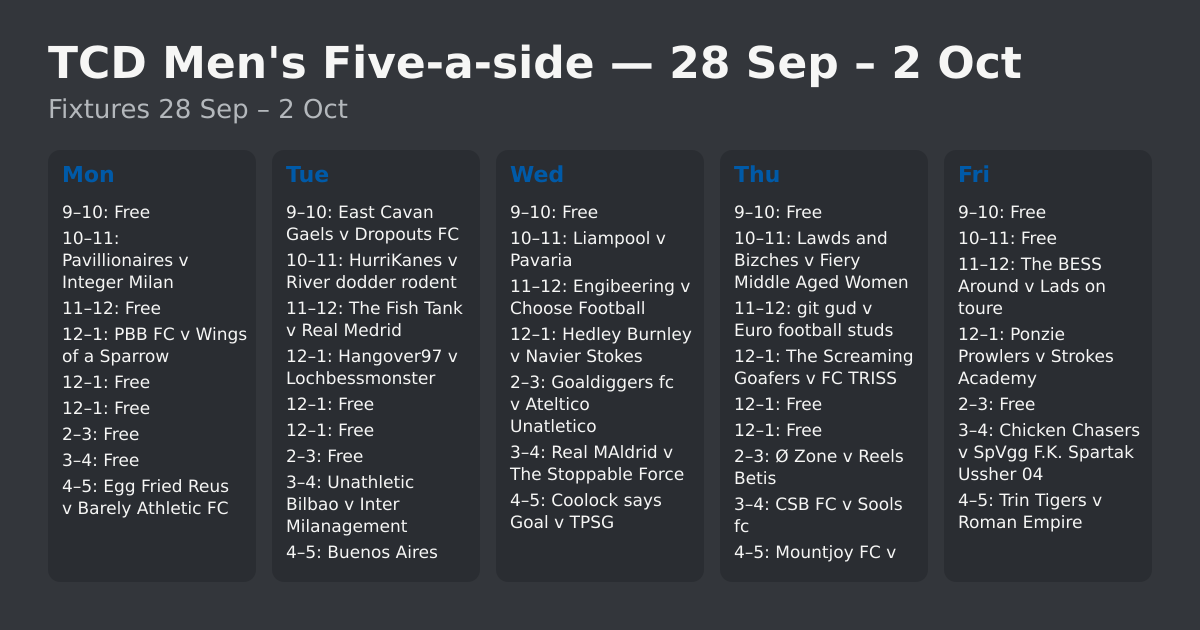
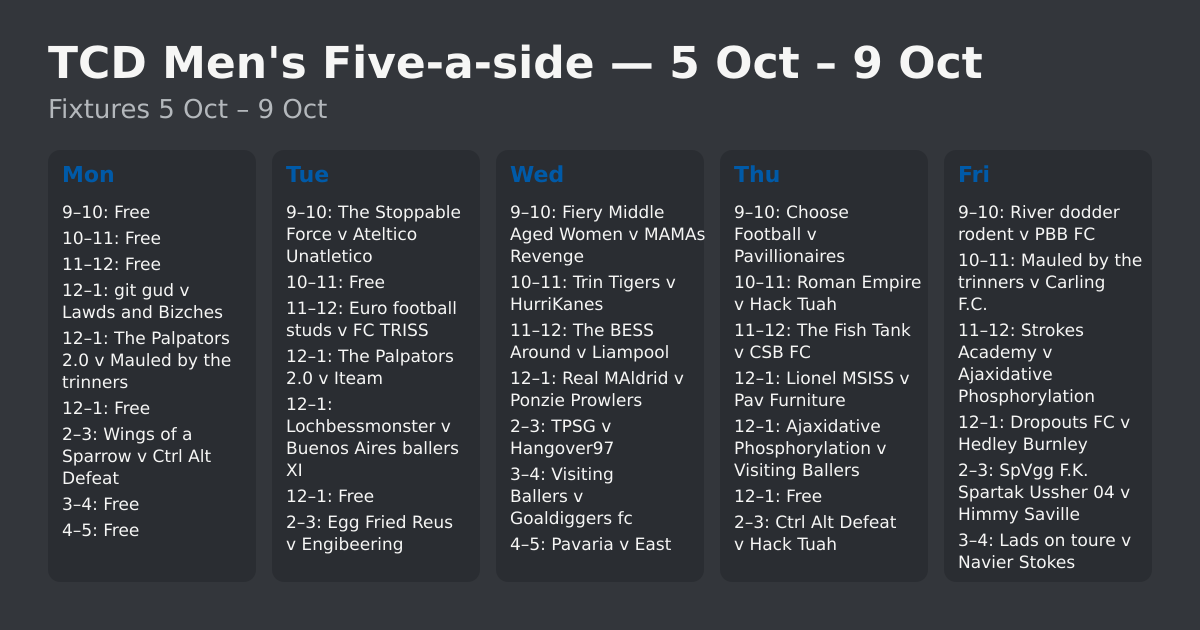
Sync fixtures from Google Sheet

diff --git a/index.html b/index.html
@@ -8,21 +8,21 @@
     />
     <meta name="theme-color" content="#33363b" />
     <!-- SHARE-META:START -->
-    <meta name="description" content="Mon:&#10;• 9–10 (Bay): Free slot&#10;• 10–11 (Bay): Pavillionaires v Integer Milan&#10;• 11–12 (Bay): Free slot&#10;• 12–1 (Bay): PBB FC v Wings of a Sparrow&#10;• 12–1 (Hall A): Free slot&#10;• 12–1 (Hall B): Free slot&#10;• 2–3 (Bay): Free slot&#10;• 3–4 (Bay): Free slot&#10;• 4–5 (Bay): Egg Fried Reus v Barely Athletic FC&#10;Tue:&#10;• 9–10 (Bay): East Cavan Gaels v Dropouts FC&#10;• 10–11 (Bay): HurriKanes v River dodder rodent&#10;• 11–12 (Bay): The Fish Tank v Real Medrid&#10;• 12–1 (Bay): Hangover97 v Lochbessmonster&#10;• 12–1 (Hall A): Free slot&#10;• 12–1 (Hall B): Free slot&#10;• 2–3 (Bay): Free slot&#10;• 3–4 (Bay): Unathletic Bilbao v Inter Milanagement&#10;• 4–5 (Bay): Buenos Aires ballers XI v Pav Furniture&#10;Wed:&#10;• 9–10 (Bay): Free slot&#10;• 10–11 (Bay): Liampool v Pavaria&#10;• 11–12 (Bay): Engibeering v Choose Football&#10;• 12–1 (Bay): Hedley Burnley v Navier Stokes&#10;• 2–3 (Bay): Goaldiggers fc v Ateltico Unatletico&#10;• 3–4 (Bay): Real MAldrid v The Stoppable Force&#10;• 4–5 (Bay): Coolock says Goal v TPSG&#10;Thu:&#10;• 9–10 (Bay): Free slot&#10;• 10–11 (Bay): Lawds and Bizches v Fiery Middle Aged Women&#10;• 11–12 (Bay): git gud v Euro football studs&#10;• 12–1 (Bay): The Screaming Goafers v FC TRISS&#10;• 12–1 (Hall A): Free slot&#10;• 12–1 (Hall B): Free slot&#10;• 2–3 (Bay): Ø Zone v Reels Betis&#10;• 3–4 (Bay): CSB FC v Sools fc&#10;• 4–5 (Bay): Mountjoy FC v Eng ballers&#10;Fri:&#10;• 9–10 (Bay): Free slot&#10;• 10–11 (Bay): Free slot&#10;• 11–12 (Bay): The BESS Around v Lads on toure&#10;• 12–1 (Bay): Ponzie Prowlers v Strokes Academy&#10;• 2–3 (Bay): Free slot&#10;• 3–4 (Bay): Chicken Chasers v SpVgg F.K. Spartak Ussher 04&#10;• 4–5 (Bay): Trin Tigers v Roman Empire" />
+    <meta name="description" content="Mon:&#10;• 9–10 (Bay): Free slot&#10;• 10–11 (Bay): Free slot&#10;• 11–12 (Bay): Free slot&#10;• 12–1 (Bay): git gud v Lawds and Bizches&#10;• 12–1 (Hall A): The Palpators 2.0 v Mauled by the trinners&#10;• 12–1 (Hall B): Free slot&#10;• 2–3 (Bay): Wings of a Sparrow v Ctrl Alt Defeat&#10;• 3–4 (Bay): Free slot&#10;• 4–5 (Bay): Free slot&#10;Tue:&#10;• 9–10 (Bay): The Stoppable Force v Ateltico Unatletico&#10;• 10–11 (Bay): Free slot&#10;• 11–12 (Bay): Euro football studs v FC TRISS&#10;• 12–1 (Bay): The Palpators 2.0 v Iteam&#10;• 12–1 (Hall A): Lochbessmonster v Buenos Aires ballers XI&#10;• 12–1 (Hall B): Free slot&#10;• 2–3 (Bay): Egg Fried Reus v Engibeering&#10;• 3–4 (Bay): Shabadoo Balompié Calcio v The Screaming Goafers&#10;• 4–5 (Bay): Integer Milan v Mountjoy FC&#10;Wed:&#10;• 9–10 (Bay): Fiery Middle Aged Women v MAMAs Revenge&#10;• 10–11 (Bay): Trin Tigers v HurriKanes&#10;• 11–12 (Bay): The BESS Around v Liampool&#10;• 12–1 (Bay): Real MAldrid v Ponzie Prowlers&#10;• 2–3 (Bay): TPSG v Hangover97&#10;• 3–4 (Bay): Visiting Ballers v Goaldiggers fc&#10;• 4–5 (Bay): Pavaria v East Cavan Gaels&#10;Thu:&#10;• 9–10 (Bay): Choose Football v Pavillionaires&#10;• 10–11 (Bay): Roman Empire v Hack Tuah&#10;• 11–12 (Bay): The Fish Tank v CSB FC&#10;• 12–1 (Bay): Lionel MSISS v Pav Furniture&#10;• 12–1 (Hall A): Ajaxidative Phosphorylation v Visiting Ballers&#10;• 12–1 (Hall B): Free slot&#10;• 2–3 (Bay): Ctrl Alt Defeat v Hack Tuah&#10;• 3–4 (Bay): Real Medrid v Reels Betis&#10;• 4–5 (Bay): Iteam v TBXI&#10;Fri:&#10;• 9–10 (Bay): River dodder rodent v PBB FC&#10;• 10–11 (Bay): Mauled by the trinners v Carling F.C.&#10;• 11–12 (Bay): Strokes Academy v Ajaxidative Phosphorylation&#10;• 12–1 (Bay): Dropouts FC v Hedley Burnley&#10;• 2–3 (Bay): SpVgg F.K. Spartak Ussher 04 v Himmy Saville&#10;• 3–4 (Bay): Lads on toure v Navier Stokes&#10;• 4–5 (Bay): Himmy Saville v Carling F.C." />
     <meta property="og:type" content="website" />
     <meta property="og:site_name" content="TCD Men's Five-a-side" />
     <meta property="og:url" content="https://fiveside.vercel.app/" />
-    <meta property="og:title" content="TCD Men's Five-a-side — 28 Sep – 2 Oct" />
-    <meta property="og:description" content="Mon:&#10;• 9–10 (Bay): Free slot&#10;• 10–11 (Bay): Pavillionaires v Integer Milan&#10;• 11–12 (Bay): Free slot&#10;• 12–1 (Bay): PBB FC v Wings of a Sparrow&#10;• 12–1 (Hall A): Free slot&#10;• 12–1 (Hall B): Free slot&#10;• 2–3 (Bay): Free slot&#10;• 3–4 (Bay): Free slot&#10;• 4–5 (Bay): Egg Fried Reus v Barely Athletic FC&#10;Tue:&#10;• 9–10 (Bay): East Cavan Gaels v Dropouts FC&#10;• 10–11 (Bay): HurriKanes v River dodder rodent&#10;• 11–12 (Bay): The Fish Tank v Real Medrid&#10;• 12–1 (Bay): Hangover97 v Lochbessmonster&#10;• 12–1 (Hall A): Free slot&#10;• 12–1 (Hall B): Free slot&#10;• 2–3 (Bay): Free slot&#10;• 3–4 (Bay): Unathletic Bilbao v Inter Milanagement&#10;• 4–5 (Bay): Buenos Aires ballers XI v Pav Furniture&#10;Wed:&#10;• 9–10 (Bay): Free slot&#10;• 10–11 (Bay): Liampool v Pavaria&#10;• 11–12 (Bay): Engibeering v Choose Football&#10;• 12–1 (Bay): Hedley Burnley v Navier Stokes&#10;• 2–3 (Bay): Goaldiggers fc v Ateltico Unatletico&#10;• 3–4 (Bay): Real MAldrid v The Stoppable Force&#10;• 4–5 (Bay): Coolock says Goal v TPSG&#10;Thu:&#10;• 9–10 (Bay): Free slot&#10;• 10–11 (Bay): Lawds and Bizches v Fiery Middle Aged Women&#10;• 11–12 (Bay): git gud v Euro football studs&#10;• 12–1 (Bay): The Screaming Goafers v FC TRISS&#10;• 12–1 (Hall A): Free slot&#10;• 12–1 (Hall B): Free slot&#10;• 2–3 (Bay): Ø Zone v Reels Betis&#10;• 3–4 (Bay): CSB FC v Sools fc&#10;• 4–5 (Bay): Mountjoy FC v Eng ballers&#10;Fri:&#10;• 9–10 (Bay): Free slot&#10;• 10–11 (Bay): Free slot&#10;• 11–12 (Bay): The BESS Around v Lads on toure&#10;• 12–1 (Bay): Ponzie Prowlers v Strokes Academy&#10;• 2–3 (Bay): Free slot&#10;• 3–4 (Bay): Chicken Chasers v SpVgg F.K. Spartak Ussher 04&#10;• 4–5 (Bay): Trin Tigers v Roman Empire" />
-    <meta property="og:image" content="https://fiveside.vercel.app/og-timetable.png?v=2026-09-28" />
+    <meta property="og:title" content="TCD Men's Five-a-side — 5 Oct – 9 Oct" />
+    <meta property="og:description" content="Mon:&#10;• 9–10 (Bay): Free slot&#10;• 10–11 (Bay): Free slot&#10;• 11–12 (Bay): Free slot&#10;• 12–1 (Bay): git gud v Lawds and Bizches&#10;• 12–1 (Hall A): The Palpators 2.0 v Mauled by the trinners&#10;• 12–1 (Hall B): Free slot&#10;• 2–3 (Bay): Wings of a Sparrow v Ctrl Alt Defeat&#10;• 3–4 (Bay): Free slot&#10;• 4–5 (Bay): Free slot&#10;Tue:&#10;• 9–10 (Bay): The Stoppable Force v Ateltico Unatletico&#10;• 10–11 (Bay): Free slot&#10;• 11–12 (Bay): Euro football studs v FC TRISS&#10;• 12–1 (Bay): The Palpators 2.0 v Iteam&#10;• 12–1 (Hall A): Lochbessmonster v Buenos Aires ballers XI&#10;• 12–1 (Hall B): Free slot&#10;• 2–3 (Bay): Egg Fried Reus v Engibeering&#10;• 3–4 (Bay): Shabadoo Balompié Calcio v The Screaming Goafers&#10;• 4–5 (Bay): Integer Milan v Mountjoy FC&#10;Wed:&#10;• 9–10 (Bay): Fiery Middle Aged Women v MAMAs Revenge&#10;• 10–11 (Bay): Trin Tigers v HurriKanes&#10;• 11–12 (Bay): The BESS Around v Liampool&#10;• 12–1 (Bay): Real MAldrid v Ponzie Prowlers&#10;• 2–3 (Bay): TPSG v Hangover97&#10;• 3–4 (Bay): Visiting Ballers v Goaldiggers fc&#10;• 4–5 (Bay): Pavaria v East Cavan Gaels&#10;Thu:&#10;• 9–10 (Bay): Choose Football v Pavillionaires&#10;• 10–11 (Bay): Roman Empire v Hack Tuah&#10;• 11–12 (Bay): The Fish Tank v CSB FC&#10;• 12–1 (Bay): Lionel MSISS v Pav Furniture&#10;• 12–1 (Hall A): Ajaxidative Phosphorylation v Visiting Ballers&#10;• 12–1 (Hall B): Free slot&#10;• 2–3 (Bay): Ctrl Alt Defeat v Hack Tuah&#10;• 3–4 (Bay): Real Medrid v Reels Betis&#10;• 4–5 (Bay): Iteam v TBXI&#10;Fri:&#10;• 9–10 (Bay): River dodder rodent v PBB FC&#10;• 10–11 (Bay): Mauled by the trinners v Carling F.C.&#10;• 11–12 (Bay): Strokes Academy v Ajaxidative Phosphorylation&#10;• 12–1 (Bay): Dropouts FC v Hedley Burnley&#10;• 2–3 (Bay): SpVgg F.K. Spartak Ussher 04 v Himmy Saville&#10;• 3–4 (Bay): Lads on toure v Navier Stokes&#10;• 4–5 (Bay): Himmy Saville v Carling F.C." />
+    <meta property="og:image" content="https://fiveside.vercel.app/og-timetable.png?v=2026-10-05" />
     <meta property="og:image:width" content="1200" />
     <meta property="og:image:height" content="630" />
     <meta name="twitter:card" content="summary_large_image" />
-    <meta name="twitter:title" content="TCD Men's Five-a-side — 28 Sep – 2 Oct" />
-    <meta name="twitter:description" content="Mon:&#10;• 9–10 (Bay): Free slot&#10;• 10–11 (Bay): Pavillionaires v Integer Milan&#10;• 11–12 (Bay): Free slot&#10;• 12–1 (Bay): PBB FC v Wings of a Sparrow&#10;• 12–1 (Hall A): Free slot&#10;• 12–1 (Hall B): Free slot&#10;• 2–3 (Bay): Free slot&#10;• 3–4 (Bay): Free slot&#10;• 4–5 (Bay): Egg Fried Reus v Barely Athletic FC&#10;Tue:&#10;• 9–10 (Bay): East Cavan Gaels v Dropouts FC&#10;• 10–11 (Bay): HurriKanes v River dodder rodent&#10;• 11–12 (Bay): The Fish Tank v Real Medrid&#10;• 12–1 (Bay): Hangover97 v Lochbessmonster&#10;• 12–1 (Hall A): Free slot&#10;• 12–1 (Hall B): Free slot&#10;• 2–3 (Bay): Free slot&#10;• 3–4 (Bay): Unathletic Bilbao v Inter Milanagement&#10;• 4–5 (Bay): Buenos Aires ballers XI v Pav Furniture&#10;Wed:&#10;• 9–10 (Bay): Free slot&#10;• 10–11 (Bay): Liampool v Pavaria&#10;• 11–12 (Bay): Engibeering v Choose Football&#10;• 12–1 (Bay): Hedley Burnley v Navier Stokes&#10;• 2–3 (Bay): Goaldiggers fc v Ateltico Unatletico&#10;• 3–4 (Bay): Real MAldrid v The Stoppable Force&#10;• 4–5 (Bay): Coolock says Goal v TPSG&#10;Thu:&#10;• 9–10 (Bay): Free slot&#10;• 10–11 (Bay): Lawds and Bizches v Fiery Middle Aged Women&#10;• 11–12 (Bay): git gud v Euro football studs&#10;• 12–1 (Bay): The Screaming Goafers v FC TRISS&#10;• 12–1 (Hall A): Free slot&#10;• 12–1 (Hall B): Free slot&#10;• 2–3 (Bay): Ø Zone v Reels Betis&#10;• 3–4 (Bay): CSB FC v Sools fc&#10;• 4–5 (Bay): Mountjoy FC v Eng ballers&#10;Fri:&#10;• 9–10 (Bay): Free slot&#10;• 10–11 (Bay): Free slot&#10;• 11–12 (Bay): The BESS Around v Lads on toure&#10;• 12–1 (Bay): Ponzie Prowlers v Strokes Academy&#10;• 2–3 (Bay): Free slot&#10;• 3–4 (Bay): Chicken Chasers v SpVgg F.K. Spartak Ussher 04&#10;• 4–5 (Bay): Trin Tigers v Roman Empire" />
-    <meta name="twitter:image" content="https://fiveside.vercel.app/og-timetable.png?v=2026-09-28" />
+    <meta name="twitter:title" content="TCD Men's Five-a-side — 5 Oct – 9 Oct" />
+    <meta name="twitter:description" content="Mon:&#10;• 9–10 (Bay): Free slot&#10;• 10–11 (Bay): Free slot&#10;• 11–12 (Bay): Free slot&#10;• 12–1 (Bay): git gud v Lawds and Bizches&#10;• 12–1 (Hall A): The Palpators 2.0 v Mauled by the trinners&#10;• 12–1 (Hall B): Free slot&#10;• 2–3 (Bay): Wings of a Sparrow v Ctrl Alt Defeat&#10;• 3–4 (Bay): Free slot&#10;• 4–5 (Bay): Free slot&#10;Tue:&#10;• 9–10 (Bay): The Stoppable Force v Ateltico Unatletico&#10;• 10–11 (Bay): Free slot&#10;• 11–12 (Bay): Euro football studs v FC TRISS&#10;• 12–1 (Bay): The Palpators 2.0 v Iteam&#10;• 12–1 (Hall A): Lochbessmonster v Buenos Aires ballers XI&#10;• 12–1 (Hall B): Free slot&#10;• 2–3 (Bay): Egg Fried Reus v Engibeering&#10;• 3–4 (Bay): Shabadoo Balompié Calcio v The Screaming Goafers&#10;• 4–5 (Bay): Integer Milan v Mountjoy FC&#10;Wed:&#10;• 9–10 (Bay): Fiery Middle Aged Women v MAMAs Revenge&#10;• 10–11 (Bay): Trin Tigers v HurriKanes&#10;• 11–12 (Bay): The BESS Around v Liampool&#10;• 12–1 (Bay): Real MAldrid v Ponzie Prowlers&#10;• 2–3 (Bay): TPSG v Hangover97&#10;• 3–4 (Bay): Visiting Ballers v Goaldiggers fc&#10;• 4–5 (Bay): Pavaria v East Cavan Gaels&#10;Thu:&#10;• 9–10 (Bay): Choose Football v Pavillionaires&#10;• 10–11 (Bay): Roman Empire v Hack Tuah&#10;• 11–12 (Bay): The Fish Tank v CSB FC&#10;• 12–1 (Bay): Lionel MSISS v Pav Furniture&#10;• 12–1 (Hall A): Ajaxidative Phosphorylation v Visiting Ballers&#10;• 12–1 (Hall B): Free slot&#10;• 2–3 (Bay): Ctrl Alt Defeat v Hack Tuah&#10;• 3–4 (Bay): Real Medrid v Reels Betis&#10;• 4–5 (Bay): Iteam v TBXI&#10;Fri:&#10;• 9–10 (Bay): River dodder rodent v PBB FC&#10;• 10–11 (Bay): Mauled by the trinners v Carling F.C.&#10;• 11–12 (Bay): Strokes Academy v Ajaxidative Phosphorylation&#10;• 12–1 (Bay): Dropouts FC v Hedley Burnley&#10;• 2–3 (Bay): SpVgg F.K. Spartak Ussher 04 v Himmy Saville&#10;• 3–4 (Bay): Lads on toure v Navier Stokes&#10;• 4–5 (Bay): Himmy Saville v Carling F.C." />
+    <meta name="twitter:image" content="https://fiveside.vercel.app/og-timetable.png?v=2026-10-05" />
     <!-- SHARE-META:END -->
-    <title>TCD Men's Five-a-side — 28 Sep – 2 Oct</title>
+    <title>TCD Men's Five-a-side — 5 Oct – 9 Oct</title>
     <link rel="icon" href="/favicon.ico" sizes="any" />
     <link rel="icon" href="/favicon.png" type="image/png" sizes="32x32" />
     <link rel="apple-touch-icon" href="/apple-touch-icon.png" />
